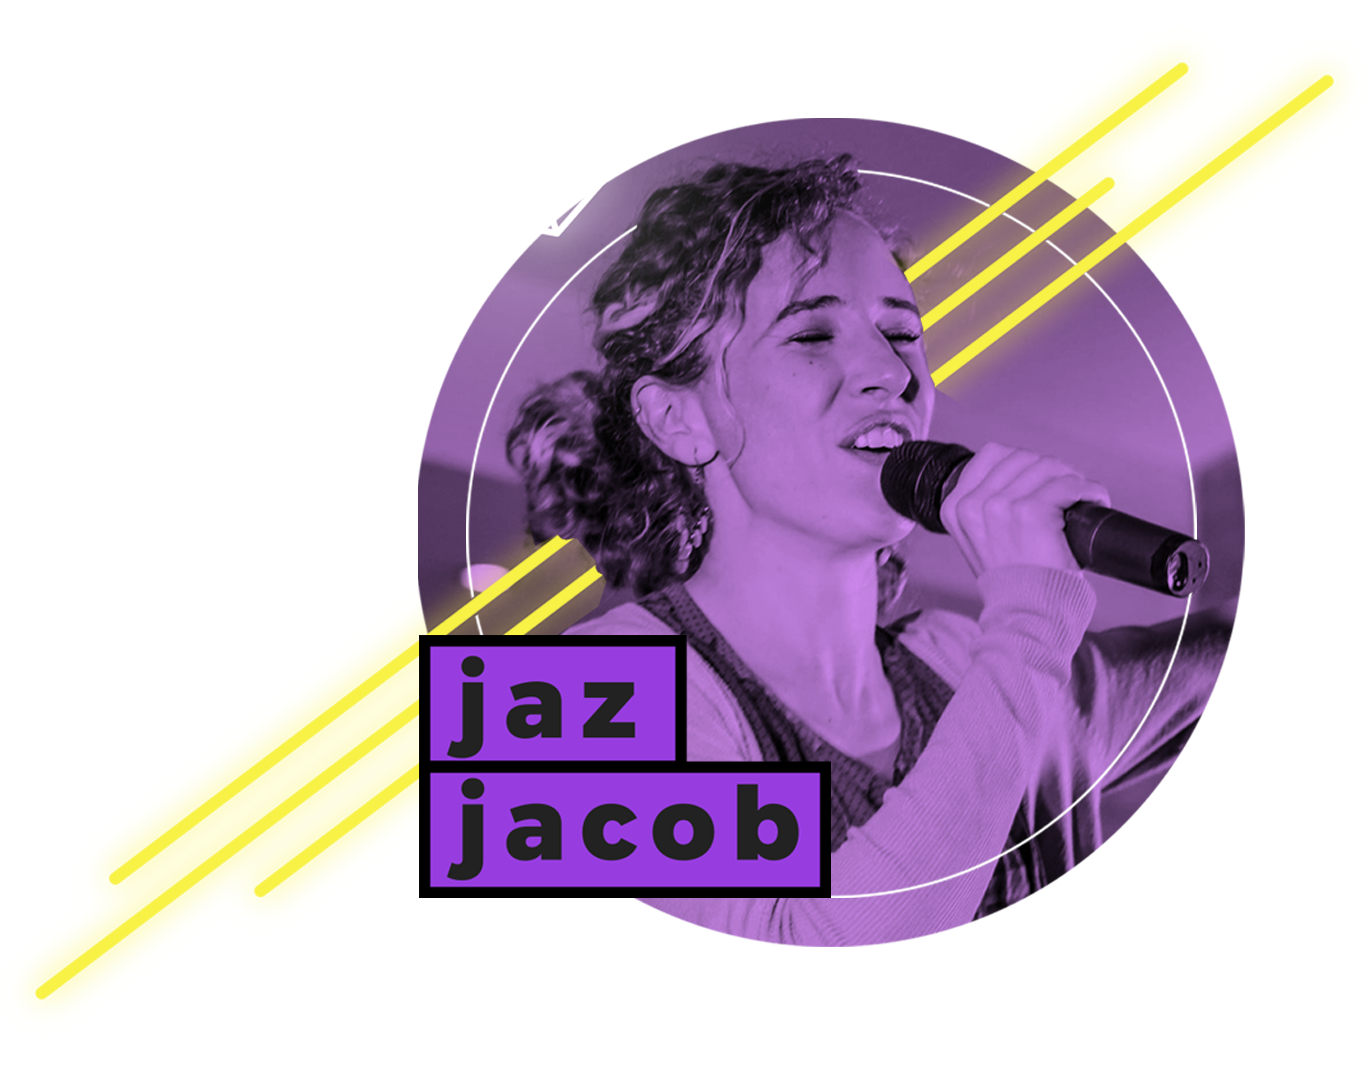
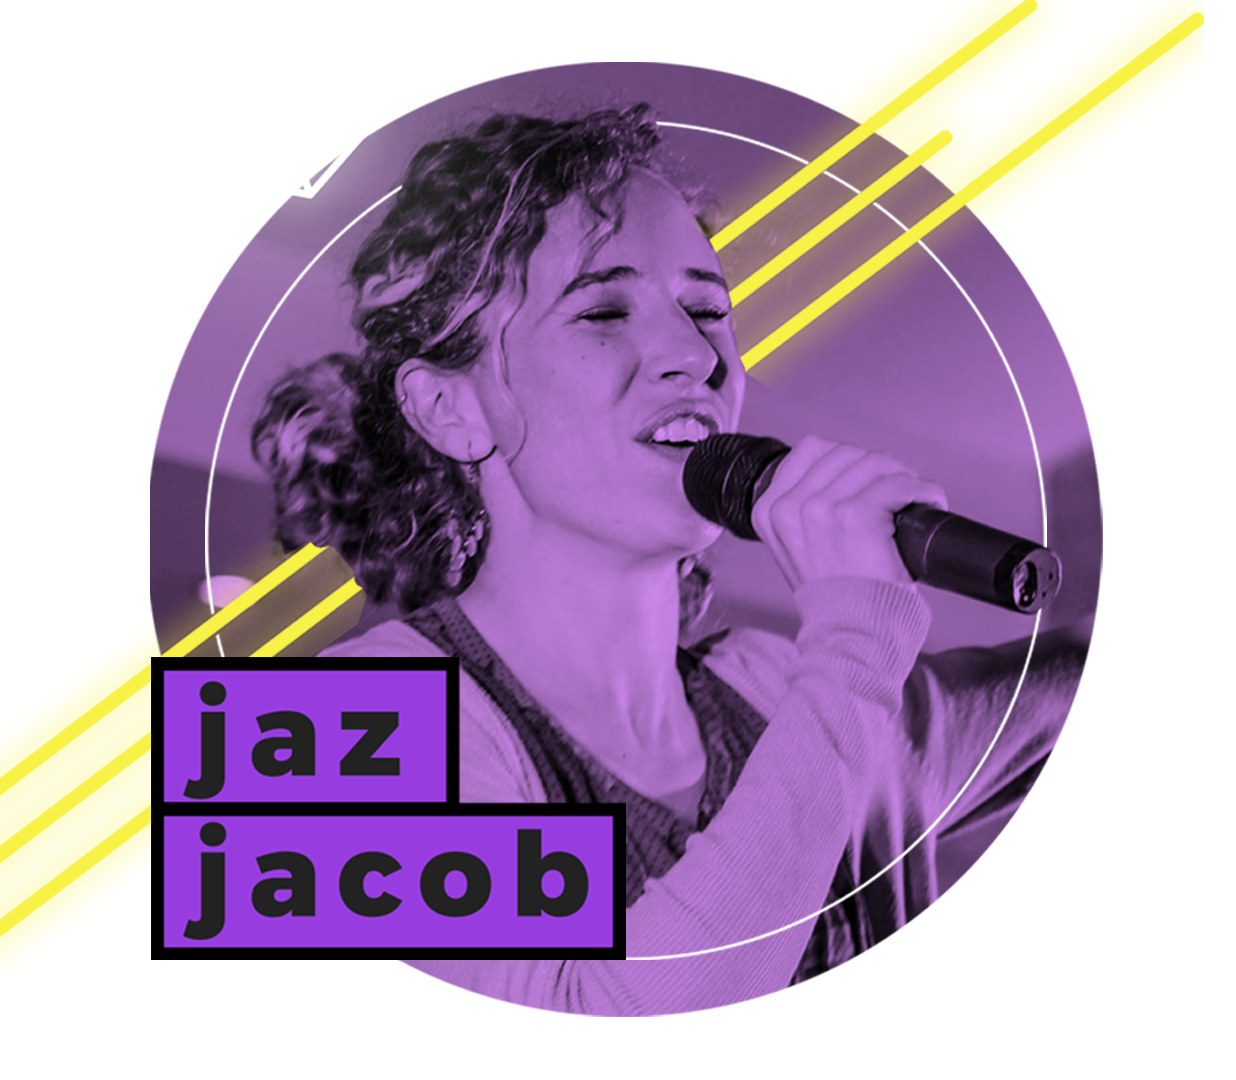
Haciendo cambios

diff --git a/expositores.html b/expositores.html
@@ -68,9 +68,10 @@
 	<div class="container container-jaz">
 		<div class="row row-expo">
 			<div class="col-lg-6 col-md-6 col-sm-12 col-expositor">
-				<img class="img-expositor" src="assets/IMG/jaz_jacob.png" alt="">
+				<img class="img-expositor" src="assets/IMG/jaz_jacob2.png" alt="">
 			</div>
 			<div class="col-lg-6 col-md-6 col-sm-12">
+				<h1 style="color: #1B0031;">jaz<br>jacob_</h1>
 				<p class="texto-expositor">Compositora, y Líder de Alabanza. <br>
 				Jaz nació en Ciudad Real España y se crió en Madrid.<br>
 				Su pasión es que la iglesia local en todo el mundo se enamore más de Cristo.  Nació y creció en España y estudió en la Escuela de Ministerio Sobrenatural en Redding, California.<br>
@@ -83,9 +84,10 @@
 	<div class="container container-leif">
 		<div class="row row-expo">
 			<div class="col-lg-6 col-md-6 col-sm-12 col-expositor">
-				<img class="img-expositor" src="assets/IMG/leif_hetland.png" alt="">
+				<img class="img-expositor" src="assets/IMG/leif_hetland2.png" alt="">
 			</div>
 			<div class="col-lg-6 col-md-6 col-sm-12">
+				<h1 style="color: #1B0031;">leif<br>hetland_</h1>
 				<p class="texto-expositor">Esposo, Padre de cuatro hijos, Evangelista, escritor, presidente y fundador de Global Mission Awareness (GMA), ministerio que ha impactado a 87 naciones en los 6continentes, llegando a más de un millón de personas con el mensaje del corazón del Padre.<br>
 				Ha viajado por todo el mundo motivando a las personas a ver el Reino de Dios en la tierra como en el cielo. Con su ministerio ha logrado penetrar en lugares donde se consideraba imposible llegar con el evangelio.<br>
 				El Amor ha derretido la dureza de los corazones y literalmente ha transformado regiones hostiles hacia Dios. Más de un millón de personas han sido salvas durante sus años de ministerio.</p>
@@ -96,9 +98,10 @@
 	<div class="container container-menny">
 		<div class="row row-expo">
 			<div class="col-lg-6 col-md-6 col-sm-12 col-expositor">
-				<img class="img-expositor" src="assets/IMG/menny_escobar.png" alt="">
+				<img class="img-expositor" src="assets/IMG/menny_escobar2.png" alt="">
 			</div>
 			<div class="col-lg-6 col-md-6 col-sm-12">
+				<h1 style="color: #1B0031;">menny<br>escobar_</h1>
 				<p class="texto-expositor">
 				Nacido en México. Esposo de Damaris y Padre de 2 hijos.
 				Conferencista Internacional y fundador de Peligro de Extinción (Ministerio de evangelismo en colegios, calles, subtes, trenes y plazas) donde se han alcanzado miles de jóvenes con el amor y la palabra de Dios. <br>
@@ -112,9 +115,10 @@
 	<div class="container container-scott">
 		<div class="row row-expo">
 			<div class="col-lg-6 col-md-6 col-sm-12 col-expositor">
-				<img class="img-expositor" src="assets/IMG/scott_thompson.png" alt="">
+				<img class="img-expositor" src="assets/IMG/scott_thompson2.png" alt="">
 			</div>
 			<div class="col-lg-6 col-md-6 col-sm-12">
+				<h1 style="color: #1B0031;">scott<br>thompson_</h1>
 				<p class="texto-expositor">Pastor, Escritor y Conferencista. Casado, Padre de tres hijos.
 				Desde el 2016 junto a su esposa Lacey son Pastores principales en Eureka, California del Campus Life House, Humboltdt. Scott y Lacey han estado en el ministerio de tiempo completo desde 2003. Graduado en Ministerio Super Natural de Bethel, en California. <br>
 				Desde el 2006 Scott además es parte del equipo de Jesus Culture, dando conferencias en todo el mundo. En los últimos años ha entrenado y enviado miles a las calles para llevar un evangelismo poderoso. <br>

diff --git a/infogeneral.html b/infogeneral.html
@@ -174,21 +174,9 @@
 				
 			</div>
 			<div class="col-sm-12 col-md-4 col-lg-4 formulario-footer">
-				<h2 style="color: #00ffbc;">Escríbenos</h2>
-				<p>¿Tienes alguna duda sobre nuestro campamento? No dudes en escribirnos</p>
-				<div class="input-group input-group-sm">
-  					<span class="input-group-addon" id="basic-addon1"><i style="color: black;" class="fa fa-user" aria-hidden="true"></i></span>
-  					<input type="text" class="form-control" placeholder="Nombre y apellido" aria-label="Username" aria-describedby="basic-addon1">
-				</div>
-				<br>
-				<div class="input-group input-group-sm">
-  					<span class="input-group-addon" id="basic-addon1"><i style="color: black;" class="fa fa-envelope" aria-hidden="true"></i></span>
-  					<input type="text" class="form-control" placeholder="Correo electrónico" aria-label="Username" aria-describedby="basic-addon1">
-  				</div>
-  				<br>
-  				<div class="input-group input-group-sm">
-  					<textarea name="#" id="" cols="30" rows="5"></textarea>
-			</div>
+				<h2 style="color: #00ffbc;">Síguenos</h2>
+				<i style="color: #00ffbc;" class="fa fa-facebook-square fa-3x" aria-hidden="true"></i>
+				<i style="color: #00ffbc;" class="fa fa-instagram fa-3x" aria-hidden="true"></i>
 		</div>
 	</div>
 

diff --git a/index.html b/index.html
@@ -144,7 +144,10 @@
 		</div>
 		<hr class="separador">
 		<div class="row">
-			<img id="expositores" src="assets/IMG/expo.png" alt="">
+			<img class="expositores" src="assets/IMG/jaz_jacob.png" alt="">
+			<img class="expositores" src="assets/IMG/leif_hetland-1.png" alt="">
+			<img class="expositores" src="assets/IMG/menny_escobar-1.png" alt="">
+			<img class="expositores" src="assets/IMG/scott_thompson-1.png" alt="">
 		</div>
 		<div class="row">
 			<a class="btn btn-primary" href="expositores.html"><button type="button" class="btn btn-primary btn-expositores">SABER MÁS DE LOS EXPOSITORES</button></a>

diff --git a/assets/CSS/media-query.css b/assets/CSS/media-query.css
@@ -62,6 +62,11 @@ hr{
 
 .terceraSeccion{
 	padding: 30px;
+    height: 650px;
+}
+
+.expositores{
+    height: 126px;
 }
 
 .btn-expositores{
@@ -115,14 +120,24 @@ hr{
 	padding: 0px;
 }
 
+.col-expositor{
+    padding: 15px;
+}
+
 .img-expositor{
-	height: 150px;
+	height: 190px;
+}
+
+.container-jaz, .container-leif, .container-menny, .container-scott{
+    padding: 20px;
+    margin-bottom: 20px;
 }
 
 /* Footer */
+
 .footer{
 	padding: 60px;
-    height: 665px;
+    height: 665px !important;
 }
 
 .logo_verde{

diff --git a/assets/CSS/main.css b/assets/CSS/main.css
@@ -78,6 +78,10 @@ hr{
 	cursor: pointer;
 }
 
+.btn-primary{
+	margin: 0 auto;
+}
+
 .btn-primary:hover, .btn-secondary:hover{
 	background-color: #ff8963;
 	border-color: #ff8963;
@@ -120,9 +124,11 @@ hr{
     margin-left: -15px;
 }
 
-#expositores{
-	height: 400px;
+.expositores{
+	height: 270px;
     margin: 0 auto;
+    margin-bottom: 40px;
+    margin-top: 40px;
 }
 
 .btn-expositores{
@@ -155,6 +161,7 @@ body{
 
 .col-expositor{
 	background-color: #1B0031;
+	padding: 50px;
 }
 
 .texto-expositor{
